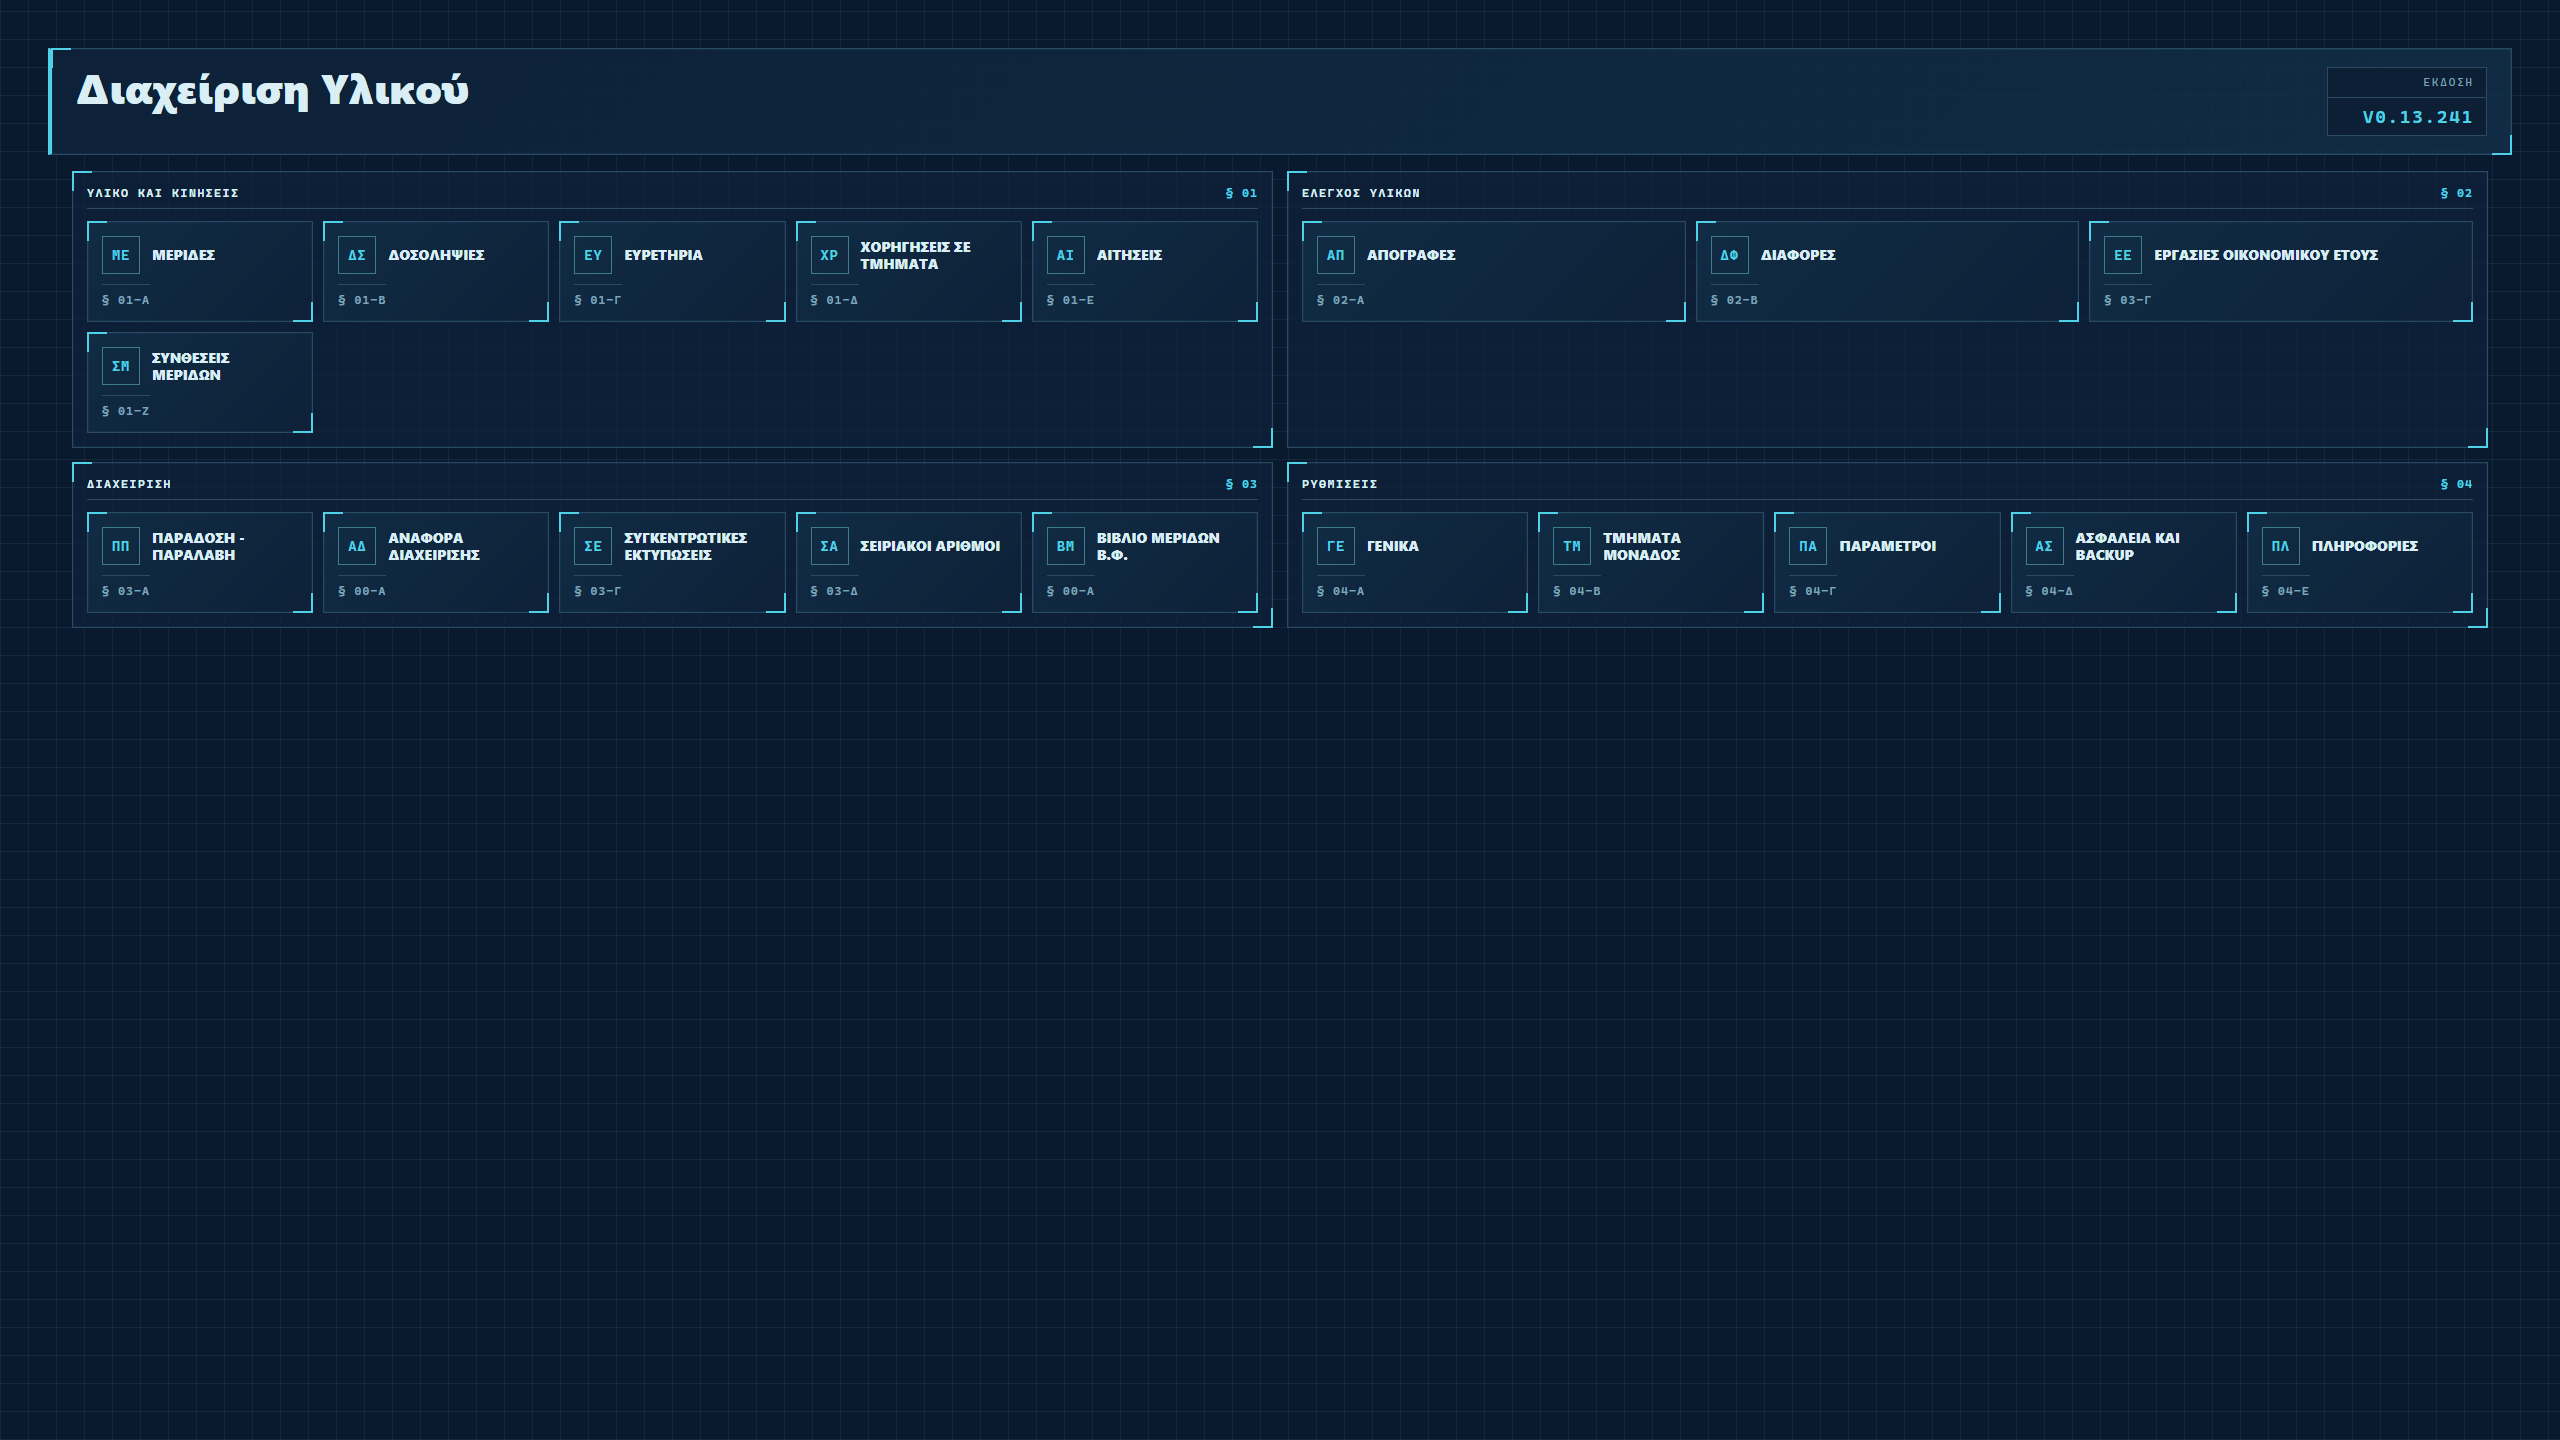
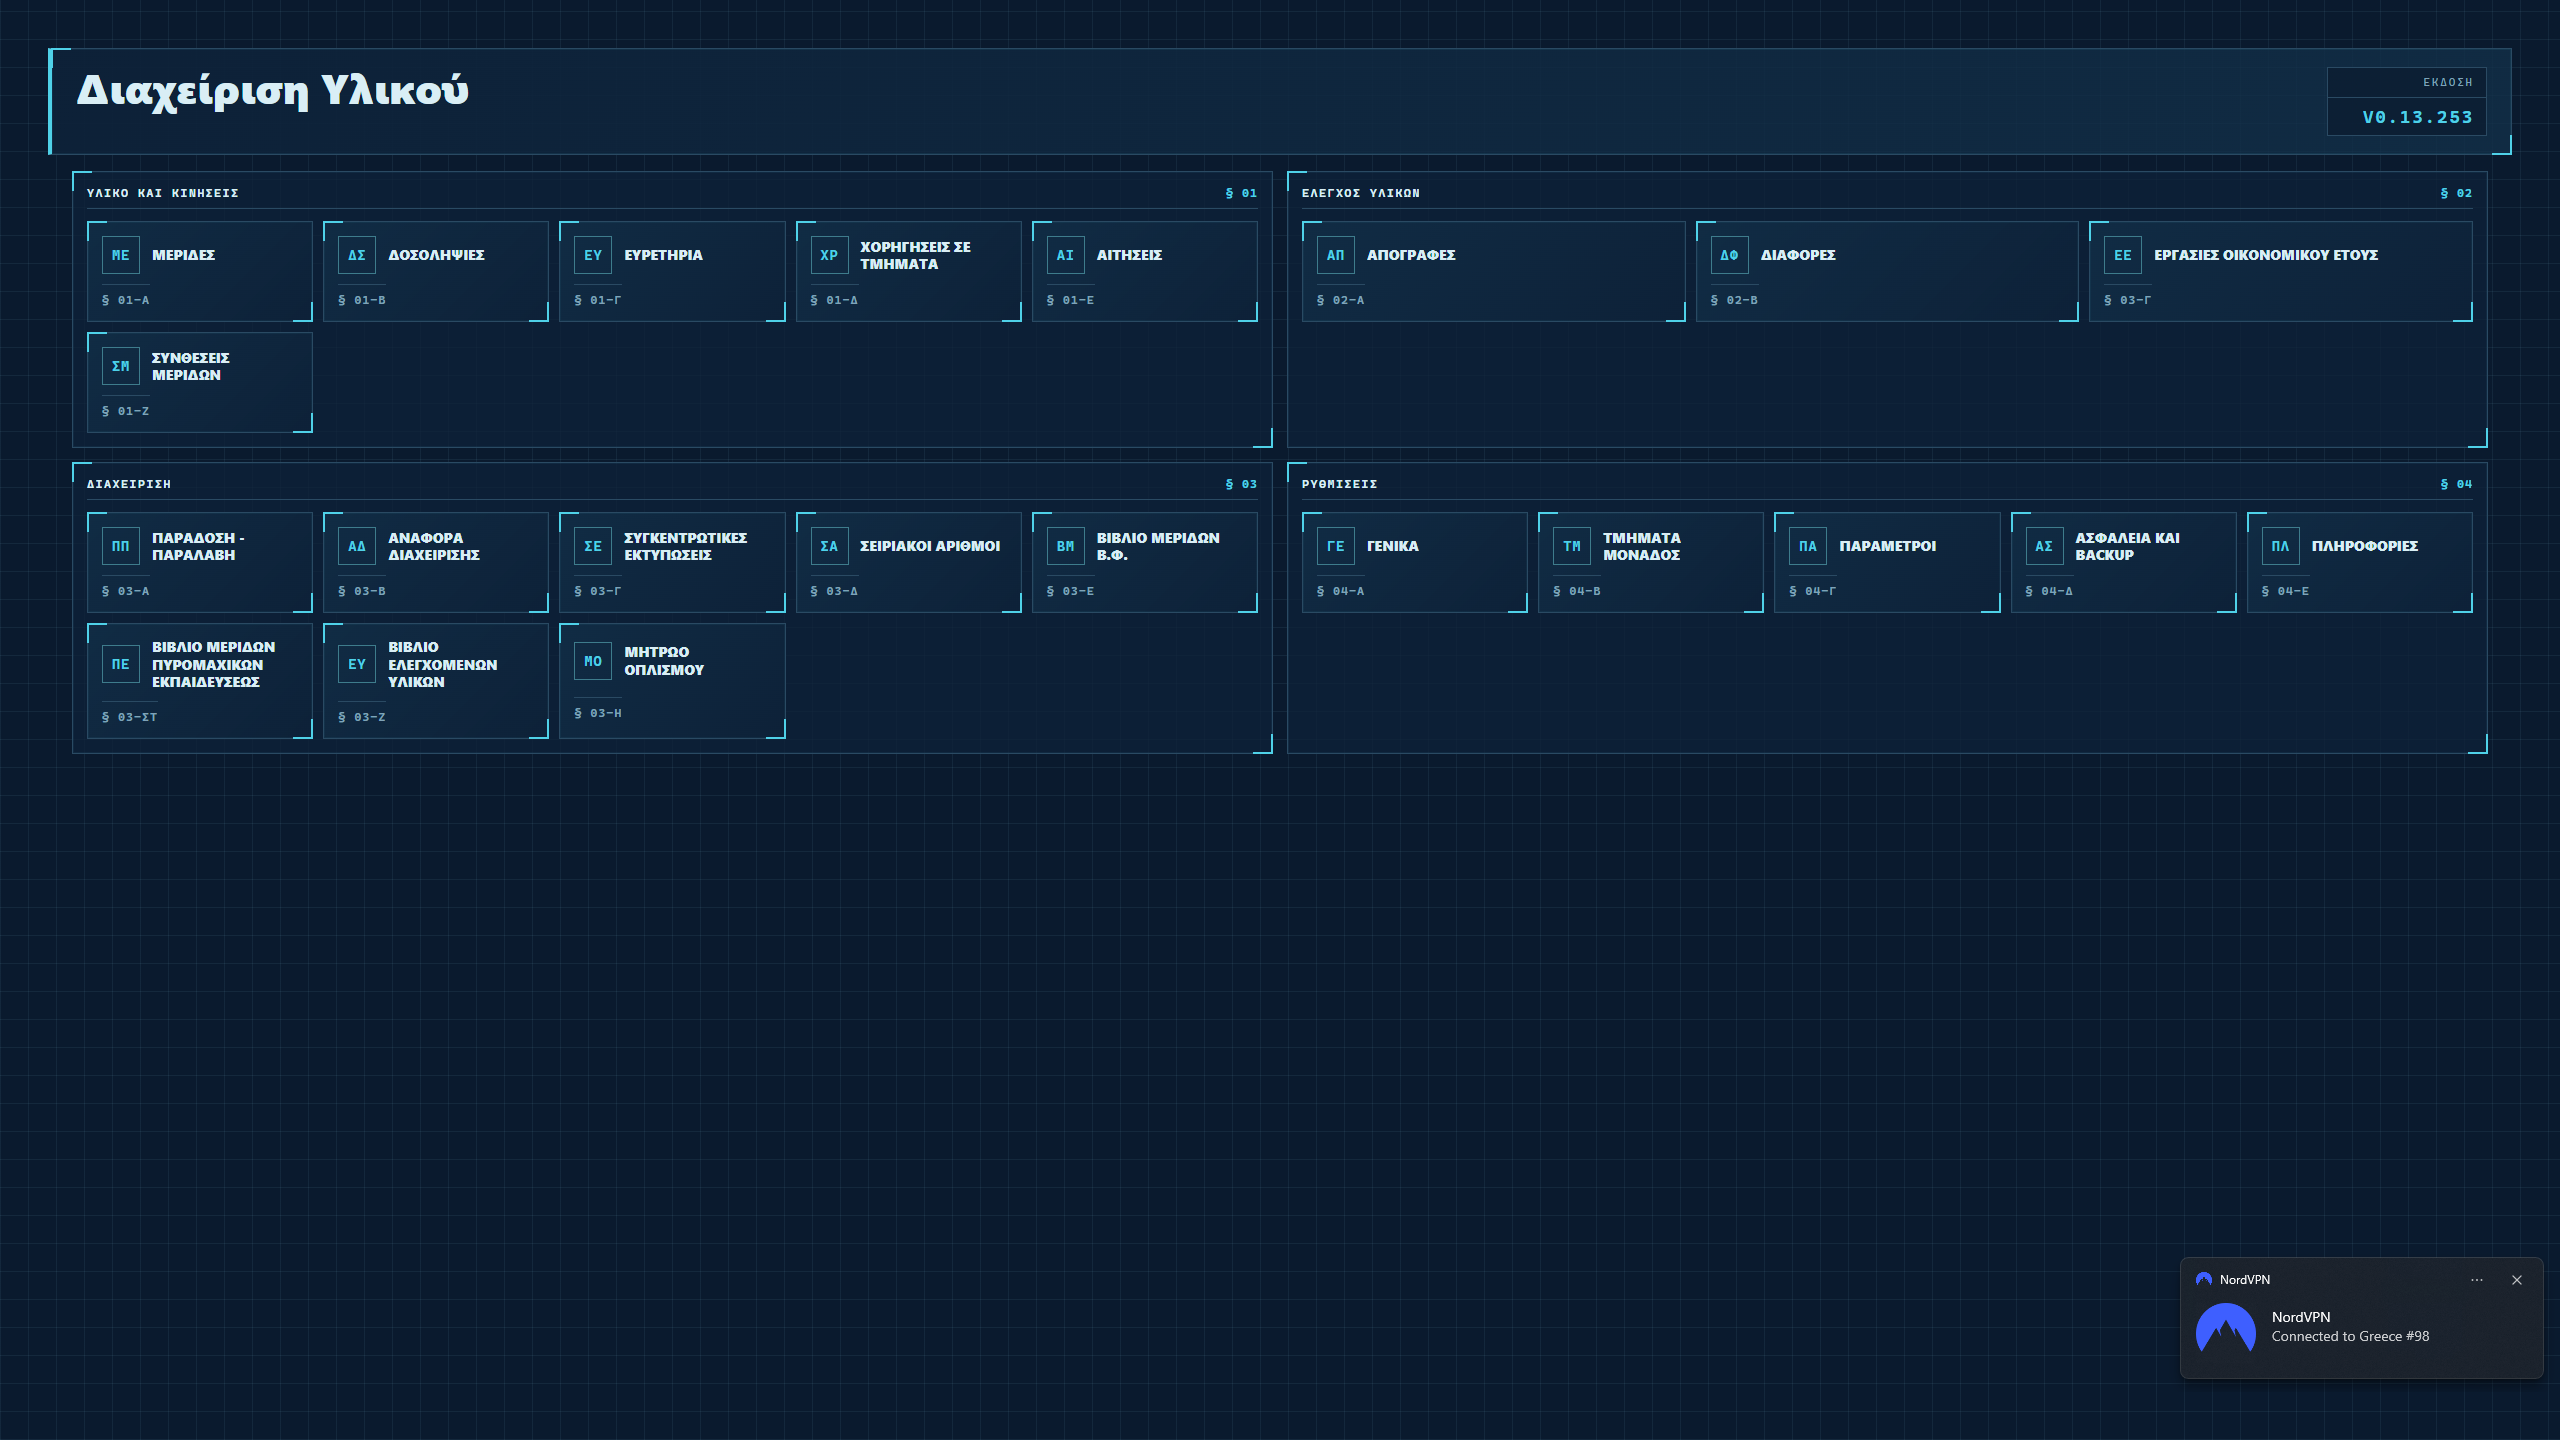
Ενημέρωση ιστοσελίδας και εικόνας στην έκδοση 0.13.253

Changed region(s): [[0.0312, 0.4375, 0.1875, 0.5], [0.8438, 0.9062, 0.9062, 0.9375], [0.2188, 0.4375, 0.2812, 0.4688]]

diff --git a/docs/index.html b/docs/index.html
@@ -62,7 +62,7 @@
           <a class="button button-ghost" href="#features">Δείτε τις δυνατότητες</a>
         </div>
         <div class="hero-meta" aria-label="Πληροφορίες έκδοσης">
-          <span><i class="status-dot"></i> Έκδοση 0.13.242</span>
+          <span><i class="status-dot"></i> Έκδοση 0.13.253</span>
           <span>Windows 7 SP1 / 10 / 11</span>
           <span>x86 &amp; x64</span>
           <span>Τοπική λειτουργία</span>
@@ -344,7 +344,7 @@
             <article class="download-option">
               <strong>Windows 10 / 11</strong>
               <span>64-bit · x64</span>
-              <a class="button button-light" data-download-link data-installer="diaxeirisi-Ylikoy-Setup-0.13.242.exe" href="#download">
+              <a class="button button-light" data-download-link data-installer="diaxeirisi-Ylikoy-Setup-0.13.253.exe" href="#download">
                 <svg viewBox="0 0 24 24" aria-hidden="true"><path d="M12 3v12m0 0 5-5m-5 5-5-5M5 20h14"></path></svg>
                 Λήψη x64
               </a>
@@ -352,7 +352,7 @@
             <article class="download-option">
               <strong>Windows 10 / 11</strong>
               <span>32-bit · x86</span>
-              <a class="button button-light" data-download-link data-installer="diaxeirisi-Ylikoy-Windows-10-11-x86-Setup-0.13.242.exe" href="#download">
+              <a class="button button-light" data-download-link data-installer="diaxeirisi-Ylikoy-Windows-10-11-x86-Setup-0.13.253.exe" href="#download">
                 <svg viewBox="0 0 24 24" aria-hidden="true"><path d="M12 3v12m0 0 5-5m-5 5-5-5M5 20h14"></path></svg>
                 Λήψη x86
               </a>
@@ -360,7 +360,7 @@
             <article class="download-option">
               <strong>Windows 7 SP1</strong>
               <span>64-bit · x64</span>
-              <a class="button button-light" data-download-link data-installer="diaxeirisi-Ylikoy-Windows-7-Legacy-Setup-0.13.242.exe" href="#download">
+              <a class="button button-light" data-download-link data-installer="diaxeirisi-Ylikoy-Windows-7-Legacy-Setup-0.13.253.exe" href="#download">
                 <svg viewBox="0 0 24 24" aria-hidden="true"><path d="M12 3v12m0 0 5-5m-5 5-5-5M5 20h14"></path></svg>
                 Λήψη x64
               </a>
@@ -368,7 +368,7 @@
             <article class="download-option">
               <strong>Windows 7 SP1</strong>
               <span>32-bit · x86</span>
-              <a class="button button-light" data-download-link data-installer="diaxeirisi-Ylikoy-Windows-7-SP1-x86-Legacy-Setup-0.13.242.exe" href="#download">
+              <a class="button button-light" data-download-link data-installer="diaxeirisi-Ylikoy-Windows-7-SP1-x86-Legacy-Setup-0.13.253.exe" href="#download">
                 <svg viewBox="0 0 24 24" aria-hidden="true"><path d="M12 3v12m0 0 5-5m-5 5-5-5M5 20h14"></path></svg>
                 Λήψη x86
               </a>
@@ -419,7 +419,7 @@
         <span class="brand-mark" aria-hidden="true">
           <svg viewBox="0 0 48 48"><path d="M10 12h28v24H10z"></path><path d="M16 18h16M16 24h10M16 30h13"></path><circle cx="36" cy="35" r="7"></circle><path d="m33 35 2 2 4-5"></path></svg>
         </span>
-        <span><strong>Διαχείριση Υλικού</strong><small>Έκδοση 0.13.242</small></span>
+        <span><strong>Διαχείριση Υλικού</strong><small>Έκδοση 0.13.253</small></span>
       </a>
       <p>Εφαρμογή διαχείρισης υλικού για Windows.</p>
     </div>

diff --git a/docs/app.js b/docs/app.js
@@ -39,7 +39,7 @@ function resolveGitHubRepository() {
 }
 
 const repository = resolveGitHubRepository();
-const defaultInstallerFileName = 'diaxeirisi-Ylikoy-Setup-0.13.242.exe';
+const defaultInstallerFileName = 'diaxeirisi-Ylikoy-Setup-0.13.253.exe';
 const downloadLinks = document.querySelectorAll('[data-download-link]');
 const downloadNote = document.querySelector('[data-download-note]');
 

diff --git a/docs/README.md b/docs/README.md
@@ -21,15 +21,15 @@ https://USERNAME.github.io/REPOSITORY/
 ## Διάθεση του installer
 
 1. Ανοίξτε την ενότητα **Releases** του repository.
-2. Δημιουργήστε release με tag `v0.13.242`.
+2. Δημιουργήστε release με tag `v0.13.253`.
 3. Επισυνάψτε και τα τέσσερα αρχεία, διατηρώντας ακριβώς τις παρακάτω
    ονομασίες:
 
 ```text
-diaxeirisi-Ylikoy-Setup-0.13.242.exe
-diaxeirisi-Ylikoy-Windows-10-11-x86-Setup-0.13.242.exe
-diaxeirisi-Ylikoy-Windows-7-Legacy-Setup-0.13.242.exe
-diaxeirisi-Ylikoy-Windows-7-SP1-x86-Legacy-Setup-0.13.242.exe
+diaxeirisi-Ylikoy-Setup-0.13.253.exe
+diaxeirisi-Ylikoy-Windows-10-11-x86-Setup-0.13.253.exe
+diaxeirisi-Ylikoy-Windows-7-Legacy-Setup-0.13.253.exe
+diaxeirisi-Ylikoy-Windows-7-SP1-x86-Legacy-Setup-0.13.253.exe
 ```
 
 Η ιστοσελίδα αναγνωρίζει αυτόματα το repository από τη διεύθυνση GitHub
